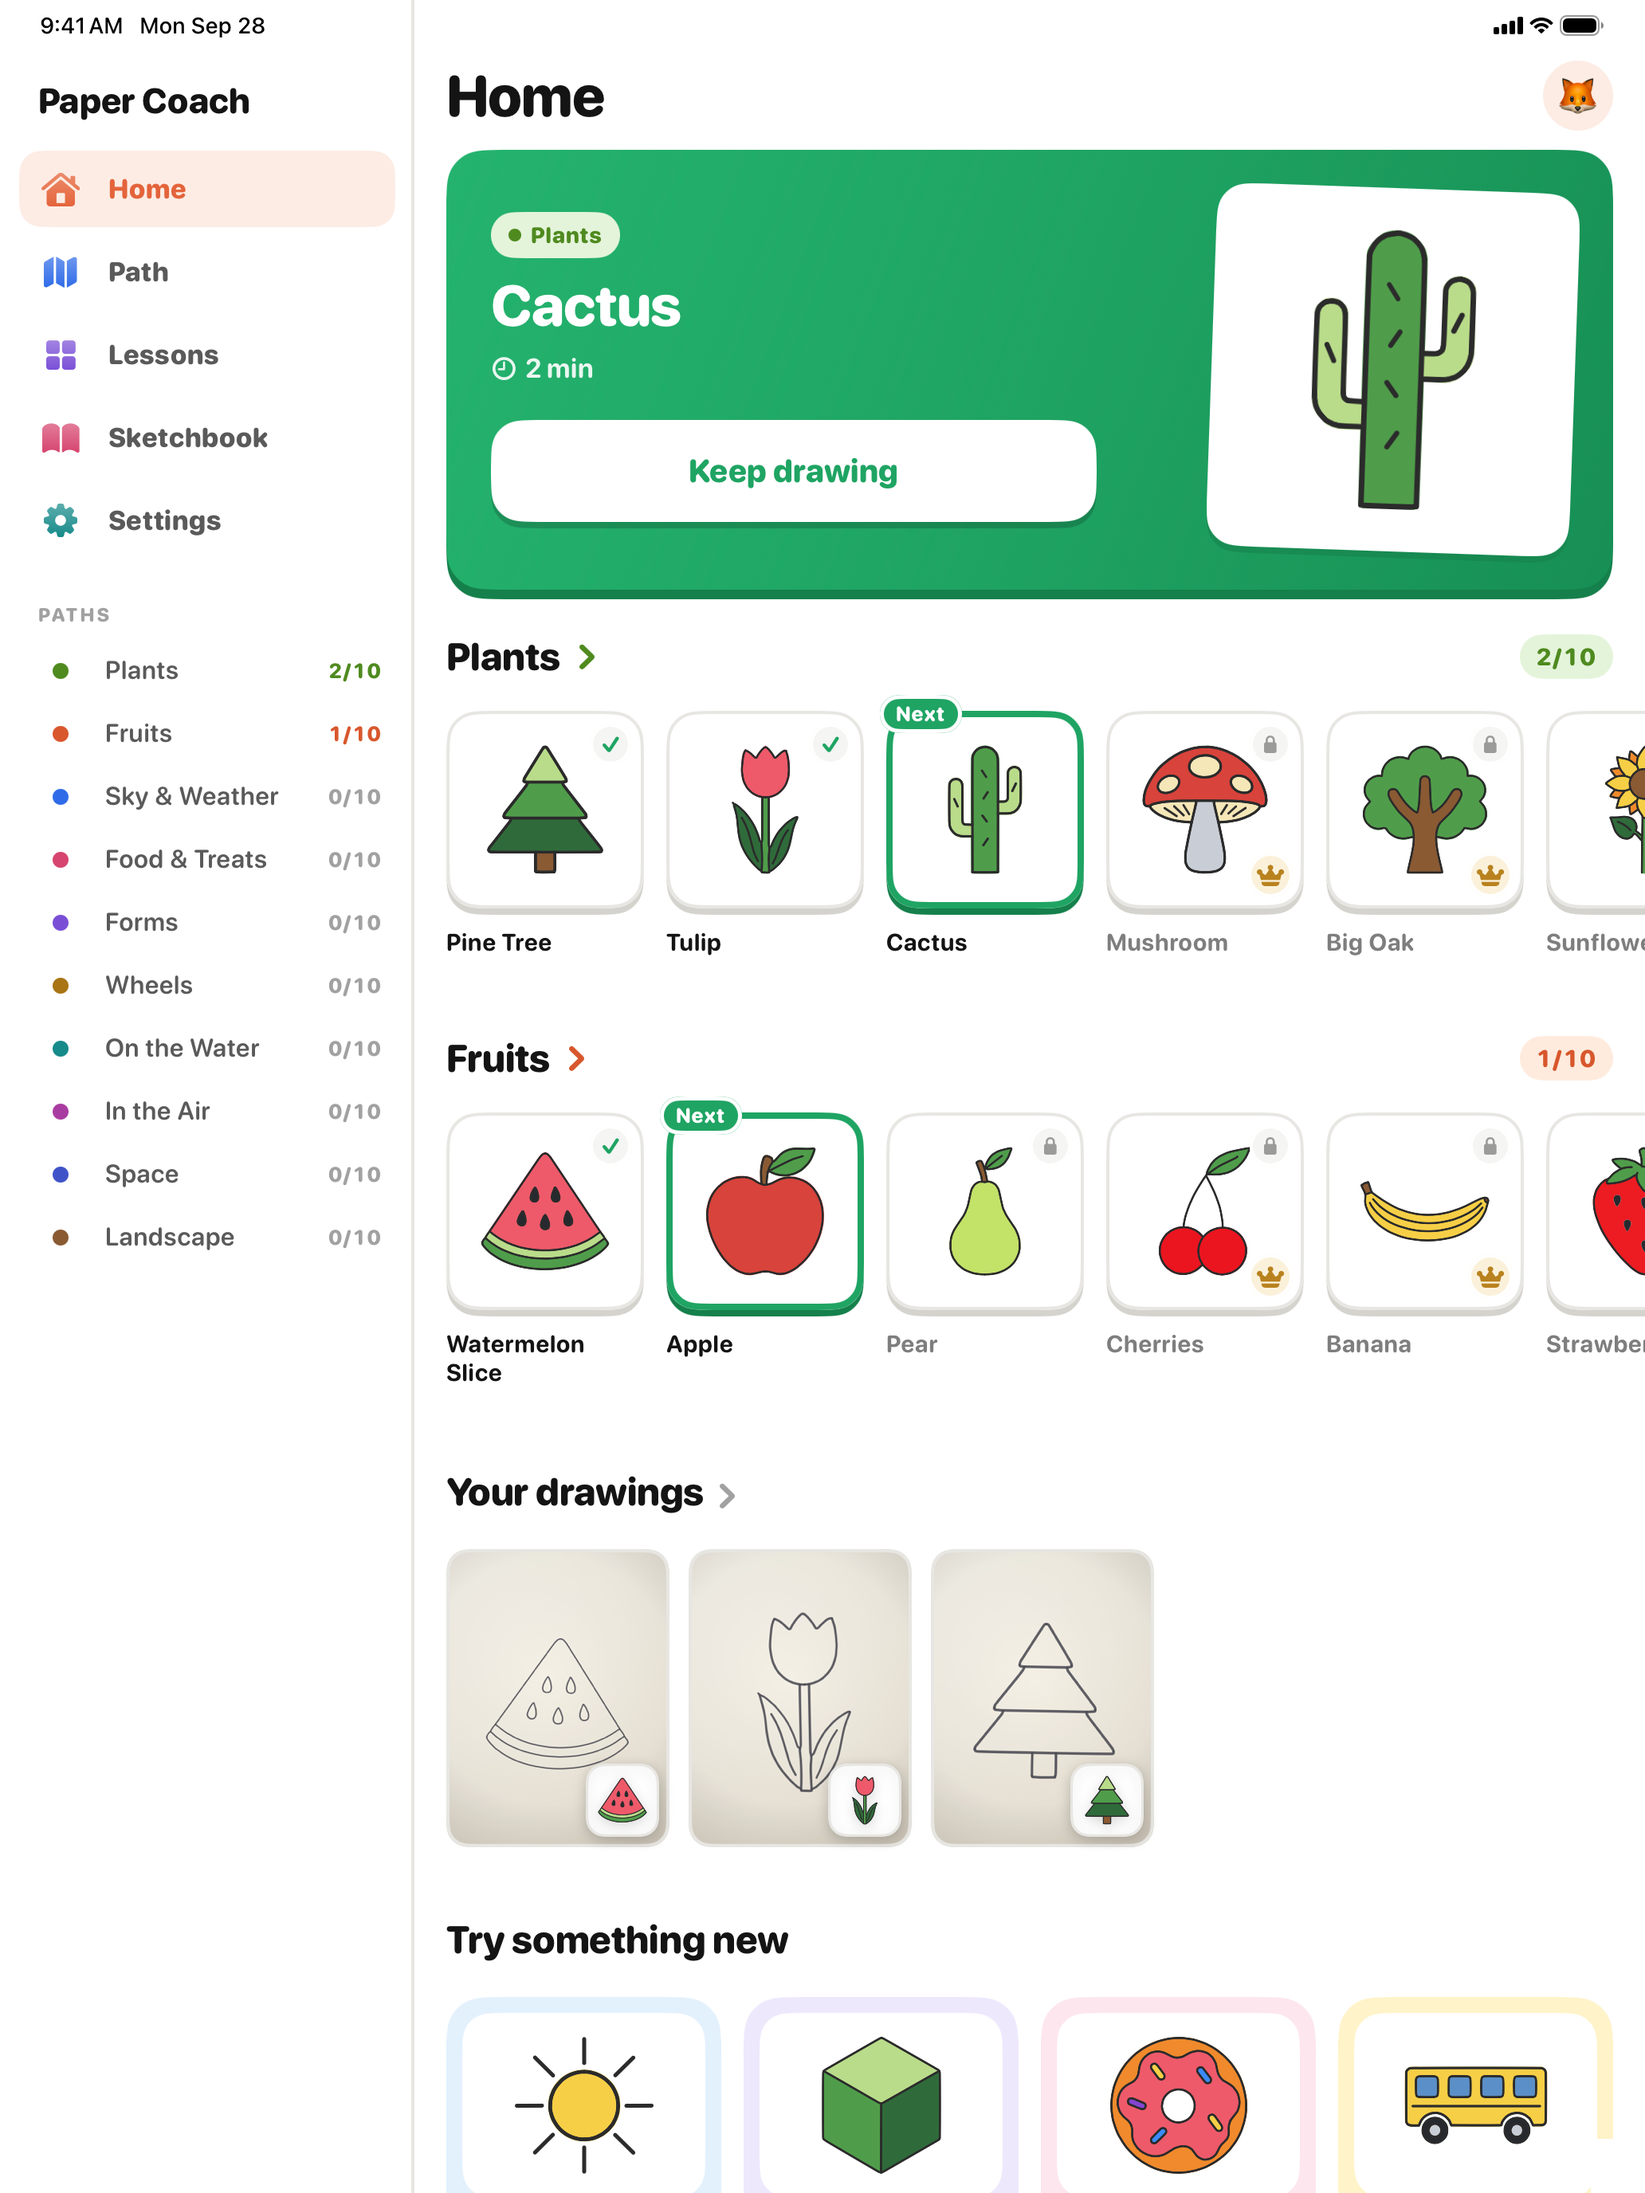
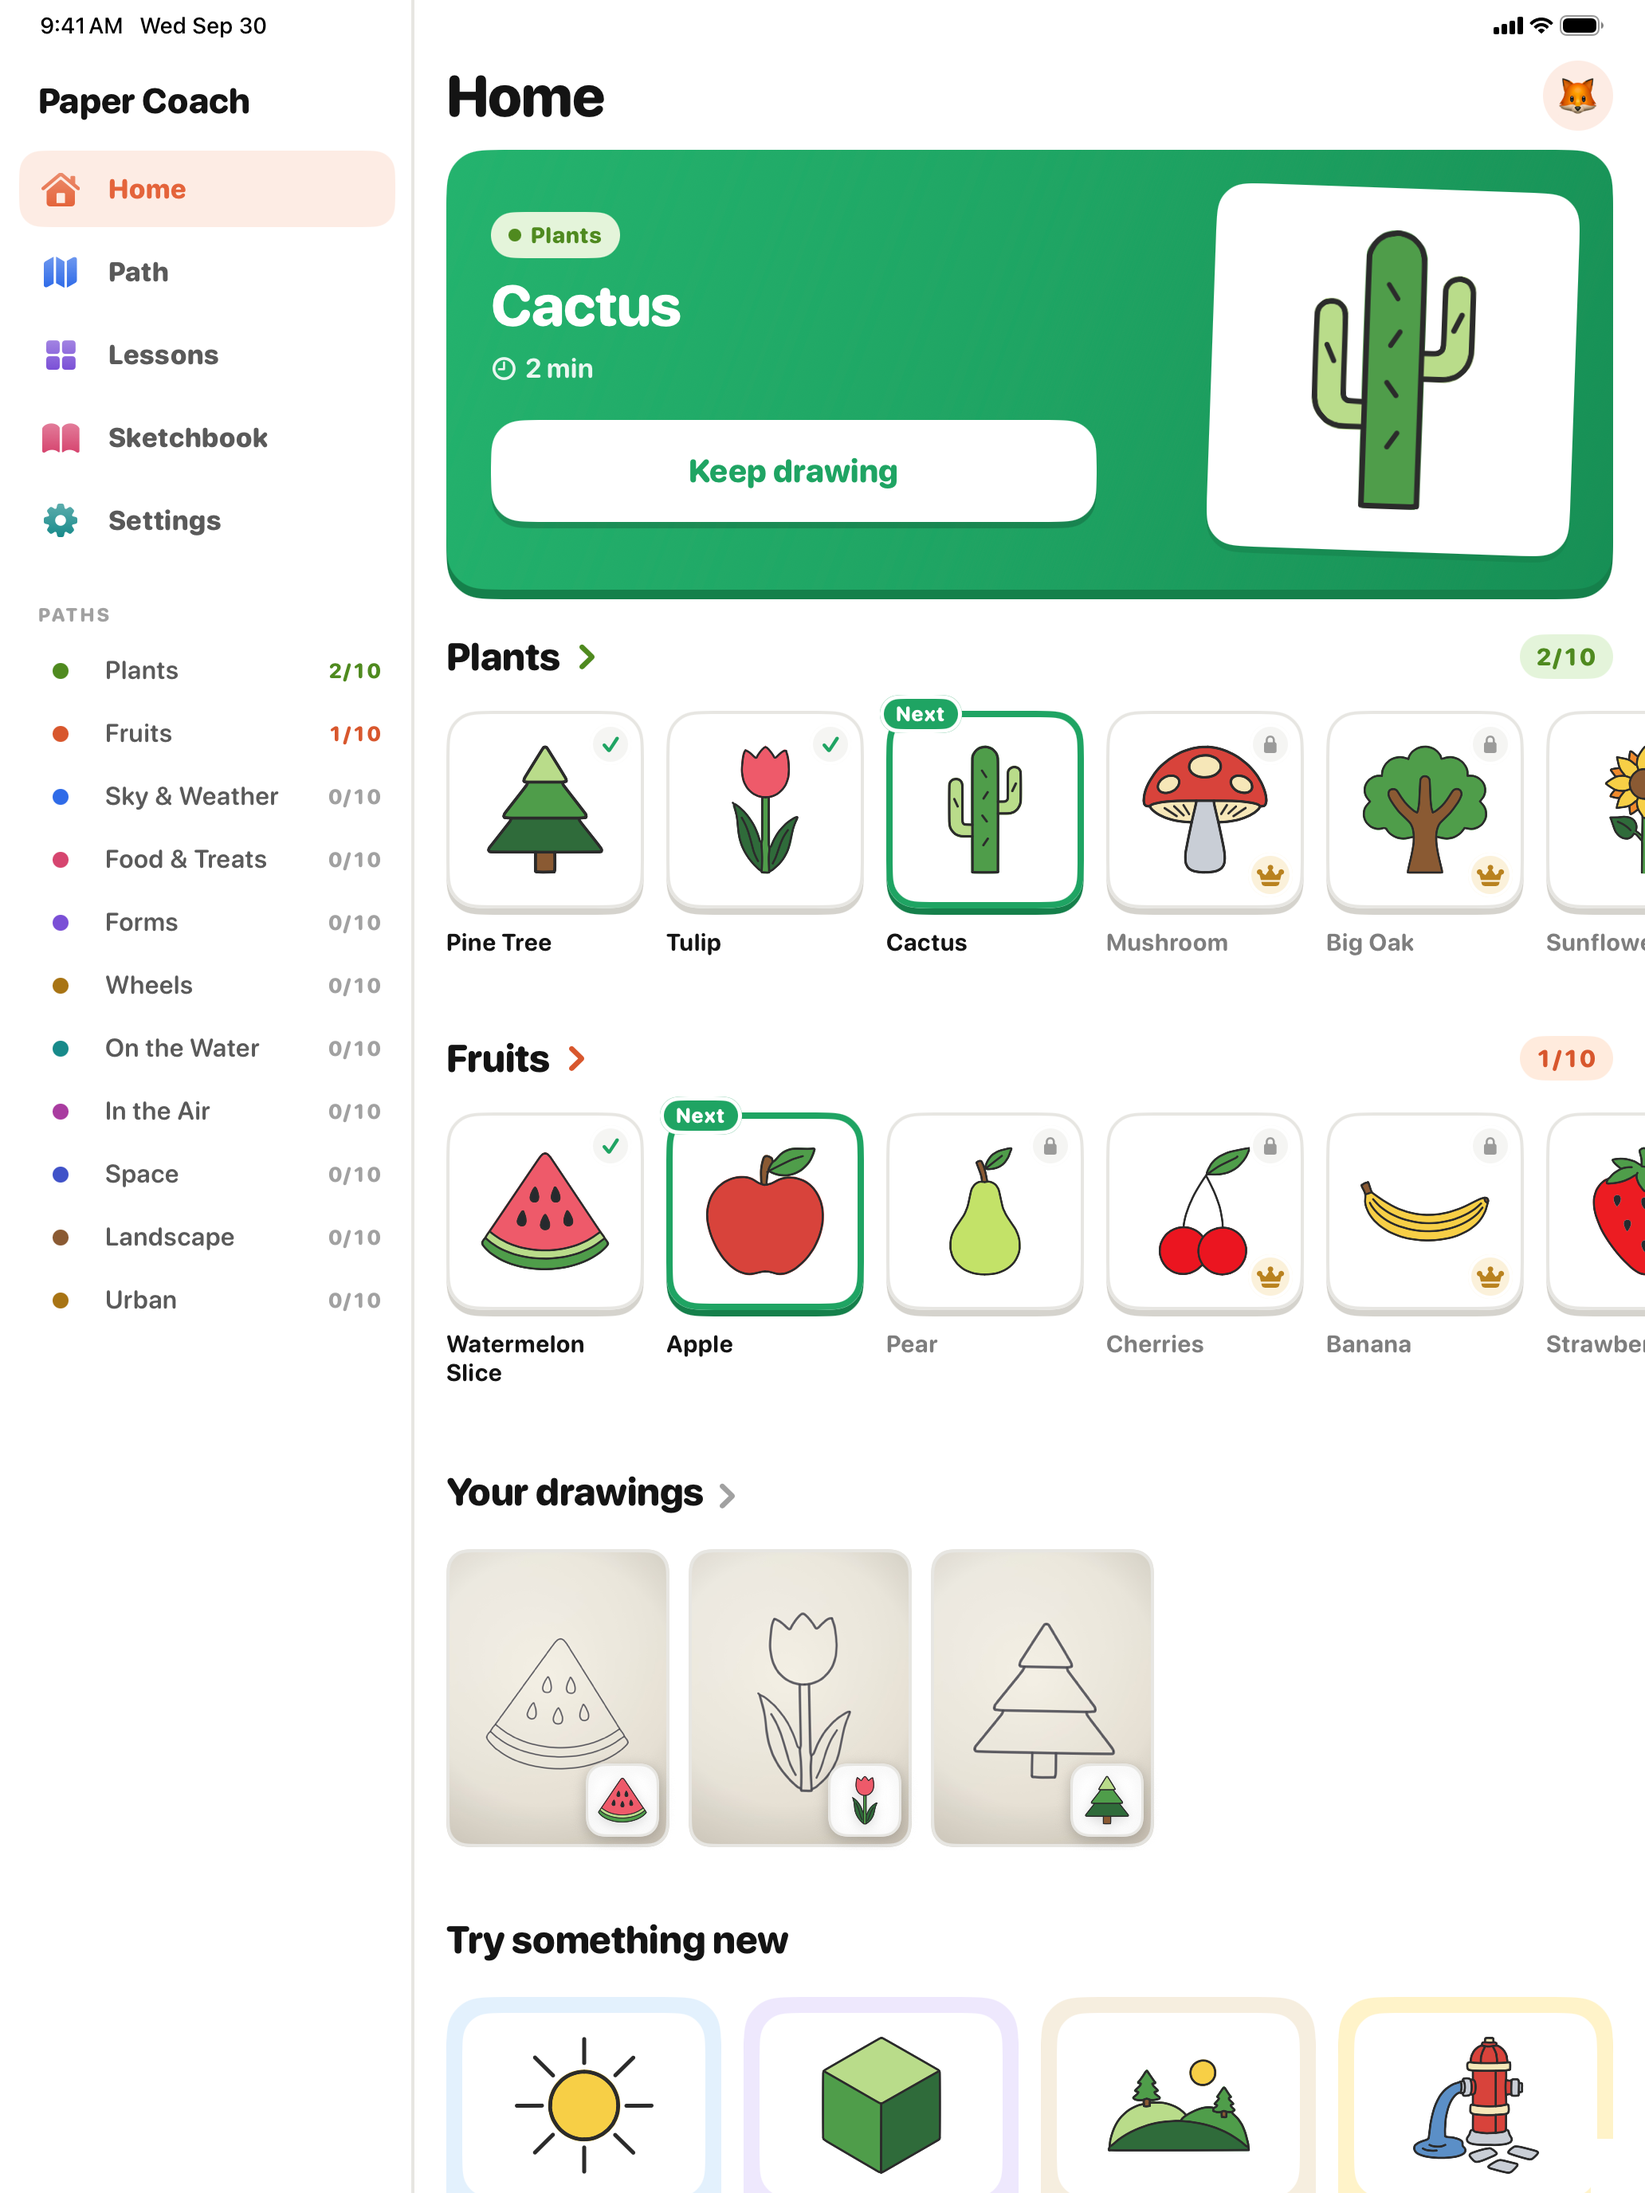
App Store art: Urban on the iPad's Paths and Home shots
Captured again from main (061b119) for 1.1: the iPad's Paths shot now shows
Urban under Advanced and in the sidebar, and Home has Urban in the sidebar and
under "Try something new". The iPhone's two screens don't reach Urban and came
out pixel for pixel the same, so only shots 2 and 8 of the iPad set changed.
All 16 still differ from 1.0's set in App Store Connect, and go up with 1.1.

Changed region(s): [[0.6512, 0.9062, 0.7752, 1.0], [0.8372, 0.9062, 0.9612, 1.0]]

diff --git a/docs/app-store/marketing/gallery.html b/docs/app-store/marketing/gallery.html
@@ -34,11 +34,11 @@
 <body>
 <main>
   <h1>Paper Coach screenshots</h1>
-  <p class="meta">docs/app-store/marketing/out · last committed 164adb4 2026-09-26 23:59 · click one for full size</p>
+  <p class="meta">docs/app-store/marketing/out · last committed 29372d8 2026-09-28 22:08 · click one for full size</p>
 
   <section>
     <h2>In App Store search <span>the first three, at the size search shows them</span></h2>
-    <div class="search"><img src="out/iphone/01-learn.png?v=1790651134343" alt="Learn to draw step by step"><img src="out/iphone/02-paths.png?v=1790651135006" alt="Draw what you love"><img src="out/iphone/03-keep.png?v=1790651136281" alt="Keep every drawing"></div>
+    <div class="search"><img src="out/iphone/01-learn.png?v=1790651158701" alt="Learn to draw step by step"><img src="out/iphone/02-paths.png?v=1790651135006" alt="Draw what you love"><img src="out/iphone/03-keep.png?v=1790651136281" alt="Keep every drawing"></div>
     <p class="note">Search results show the first three iPhone screenshots side by side at about a third of the
       phone's width, so each has to read at this size.</p>
   </section>
@@ -47,7 +47,7 @@
       <h2>iPhone 6.9″ <span>1320 × 2868 · 8 shots</span></h2>
       <div class="grid iphone">
       <figure>
-        <a href="out/iphone/01-learn.png?v=1790651134343" target="_blank"><img src="out/iphone/01-learn.png?v=1790651134343" alt="Learn to draw step by step" loading="lazy"></a>
+        <a href="out/iphone/01-learn.png?v=1790651158701" target="_blank"><img src="out/iphone/01-learn.png?v=1790651158701" alt="Learn to draw step by step" loading="lazy"></a>
         <figcaption><b>01</b> Learn to draw step by step</figcaption>
       </figure>
       <figure>
@@ -59,7 +59,7 @@
         <figcaption><b>03</b> Keep every drawing</figcaption>
       </figure>
       <figure>
-        <a href="out/iphone/04-color.png?v=1790651136954" target="_blank"><img src="out/iphone/04-color.png?v=1790651136954" alt="Finish it in full color" loading="lazy"></a>
+        <a href="out/iphone/04-color.png?v=1790651158925" target="_blank"><img src="out/iphone/04-color.png?v=1790651158925" alt="Finish it in full color" loading="lazy"></a>
         <figcaption><b>04</b> Finish it in full color</figcaption>
       </figure>
       <figure>
@@ -71,7 +71,7 @@
         <figcaption><b>06</b> Start simple, then level up</figcaption>
       </figure>
       <figure>
-        <a href="out/iphone/07-done.png?v=1790651138909" target="_blank"><img src="out/iphone/07-done.png?v=1790651138909" alt="A finished picture in minutes" loading="lazy"></a>
+        <a href="out/iphone/07-done.png?v=1790651159129" target="_blank"><img src="out/iphone/07-done.png?v=1790651159129" alt="A finished picture in minutes" loading="lazy"></a>
         <figcaption><b>07</b> A finished picture in minutes</figcaption>
       </figure>
       <figure>
@@ -85,11 +85,11 @@
       <h2>iPad 13″ <span>2064 × 2752 · 8 shots</span></h2>
       <div class="grid ipad">
       <figure>
-        <a href="out/ipad/01-learn.png?v=1790651141717" target="_blank"><img src="out/ipad/01-learn.png?v=1790651141717" alt="Learn to draw step by step" loading="lazy"></a>
+        <a href="out/ipad/01-learn.png?v=1790651159335" target="_blank"><img src="out/ipad/01-learn.png?v=1790651159335" alt="Learn to draw step by step" loading="lazy"></a>
         <figcaption><b>01</b> Learn to draw step by step</figcaption>
       </figure>
       <figure>
-        <a href="out/ipad/02-paths.png?v=1790651142600" target="_blank"><img src="out/ipad/02-paths.png?v=1790651142600" alt="Draw what you love" loading="lazy"></a>
+        <a href="out/ipad/02-paths.png?v=1790797737700" target="_blank"><img src="out/ipad/02-paths.png?v=1790797737700" alt="Draw what you love" loading="lazy"></a>
         <figcaption><b>02</b> Draw what you love</figcaption>
       </figure>
       <figure>
@@ -97,7 +97,7 @@
         <figcaption><b>03</b> Keep every drawing</figcaption>
       </figure>
       <figure>
-        <a href="out/ipad/04-color.png?v=1790651145175" target="_blank"><img src="out/ipad/04-color.png?v=1790651145175" alt="Finish it in full color" loading="lazy"></a>
+        <a href="out/ipad/04-color.png?v=1790651159652" target="_blank"><img src="out/ipad/04-color.png?v=1790651159652" alt="Finish it in full color" loading="lazy"></a>
         <figcaption><b>04</b> Finish it in full color</figcaption>
       </figure>
       <figure>
@@ -109,11 +109,11 @@
         <figcaption><b>06</b> Start simple, then level up</figcaption>
       </figure>
       <figure>
-        <a href="out/ipad/07-done.png?v=1790651147821" target="_blank"><img src="out/ipad/07-done.png?v=1790651147821" alt="A finished picture in minutes" loading="lazy"></a>
+        <a href="out/ipad/07-done.png?v=1790651159945" target="_blank"><img src="out/ipad/07-done.png?v=1790651159945" alt="A finished picture in minutes" loading="lazy"></a>
         <figcaption><b>07</b> A finished picture in minutes</figcaption>
       </figure>
       <figure>
-        <a href="out/ipad/08-home.png?v=1790651148952" target="_blank"><img src="out/ipad/08-home.png?v=1790651148952" alt="Pick up where you left off" loading="lazy"></a>
+        <a href="out/ipad/08-home.png?v=1790797739585" target="_blank"><img src="out/ipad/08-home.png?v=1790797739585" alt="Pick up where you left off" loading="lazy"></a>
         <figcaption><b>08</b> Pick up where you left off</figcaption>
       </figure>
       </div>
